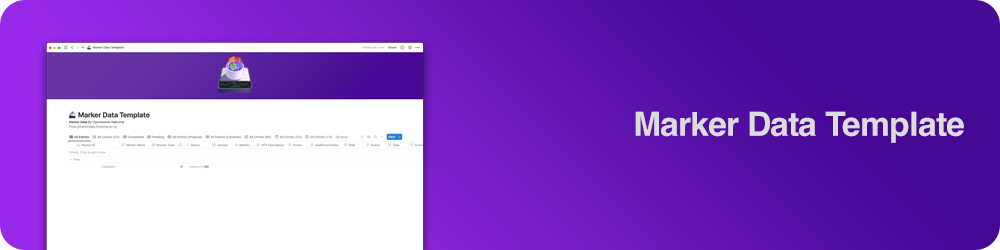
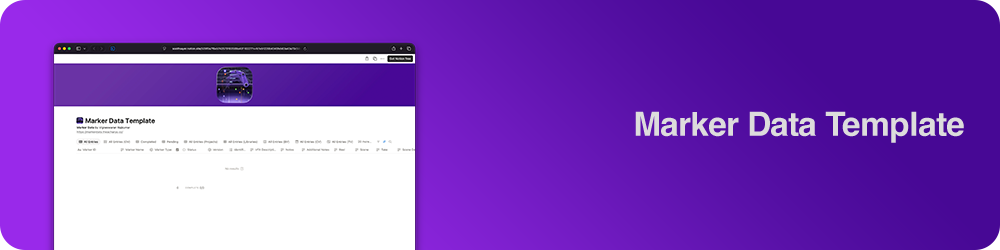
Refreshes Retype-generated documentation.
Process triggered by IAmVigneswaran.

diff --git a/resources/js/config.js b/resources/js/config.js
@@ -1,1 +1,1 @@
[2 lines of base64/hex data omitted]

diff --git a/case-study/creating-vfx-database/index.html b/case-study/creating-vfx-database/index.html
@@ -4,7 +4,7 @@
     <meta charset="UTF-8">
     <meta name="viewport" content="width=device-width,initial-scale=1">
     <meta name="color-scheme" content="light dark">
-    <meta name="turbo-cache-control" content="no-cache" data-turbo-track="reload" data-track-token="4.6.0.841154354320">
+    <meta name="turbo-cache-control" content="no-cache" data-turbo-track="reload" data-track-token="4.6.0.841159402585">
 
     <!-- See retype.com -->
     <meta name="generator" content="Retype 4.6.0">
@@ -44,11 +44,11 @@
     <script data-cfasync="false">(function(){var cl=document.documentElement.classList,ls=localStorage.getItem("retype_scheme"),hd=cl.contains("dark"),hl=cl.contains("light"),wm=window.matchMedia&&window.matchMedia("(prefers-color-scheme: dark)").matches;if(ls==="dark"||(!ls&&wm&&!hd&&!hl)){cl.remove("light");cl.add("dark")}else if(ls==="light"||(!ls&&!wm&&!hd&&!hl)){cl.remove("dark");cl.add("light")}})();</script>
 
     <link id="retype-favicon" rel="icon" href="../../static/favicon.ico" />
-    <link href="../../resources/css/retype.css?v=4.6.0.841154354320" rel="stylesheet">
+    <link href="../../resources/css/retype.css?v=4.6.0.841159402585" rel="stylesheet">
 
-    <script data-cfasync="false" src="../../resources/js/config.js?v=4.6.0.841154354320" data-turbo-eval="false" defer></script>
+    <script data-cfasync="false" src="../../resources/js/config.js?v=4.6.0.841159402585" data-turbo-eval="false" defer></script>
     <script data-cfasync="false" src="../../resources/js/retype.js?v=4.6.0" data-turbo-eval="false" defer></script>
-    <script id="lunr-js" data-cfasync="false" src="../../resources/js/lunr.js?v=4.6.0.841154354320" data-turbo-eval="false" defer></script>
+    <script id="lunr-js" data-cfasync="false" src="../../resources/js/lunr.js?v=4.6.0.841159402585" data-turbo-eval="false" defer></script>
 
     <meta name="msvalidate.01" content="325120C12888C61306930ACDFB17A57E" />
     <!-- Google Tag Manager -->

diff --git a/case-study/final-cut-pro-enigma/index.html b/case-study/final-cut-pro-enigma/index.html
@@ -4,7 +4,7 @@
     <meta charset="UTF-8">
     <meta name="viewport" content="width=device-width,initial-scale=1">
     <meta name="color-scheme" content="light dark">
-    <meta name="turbo-cache-control" content="no-cache" data-turbo-track="reload" data-track-token="4.6.0.841154354320">
+    <meta name="turbo-cache-control" content="no-cache" data-turbo-track="reload" data-track-token="4.6.0.841159402585">
 
     <!-- See retype.com -->
     <meta name="generator" content="Retype 4.6.0">
@@ -44,11 +44,11 @@
     <script data-cfasync="false">(function(){var cl=document.documentElement.classList,ls=localStorage.getItem("retype_scheme"),hd=cl.contains("dark"),hl=cl.contains("light"),wm=window.matchMedia&&window.matchMedia("(prefers-color-scheme: dark)").matches;if(ls==="dark"||(!ls&&wm&&!hd&&!hl)){cl.remove("light");cl.add("dark")}else if(ls==="light"||(!ls&&!wm&&!hd&&!hl)){cl.remove("dark");cl.add("light")}})();</script>
 
     <link id="retype-favicon" rel="icon" href="../../static/favicon.ico" />
-    <link href="../../resources/css/retype.css?v=4.6.0.841154354320" rel="stylesheet">
+    <link href="../../resources/css/retype.css?v=4.6.0.841159402585" rel="stylesheet">
 
-    <script data-cfasync="false" src="../../resources/js/config.js?v=4.6.0.841154354320" data-turbo-eval="false" defer></script>
+    <script data-cfasync="false" src="../../resources/js/config.js?v=4.6.0.841159402585" data-turbo-eval="false" defer></script>
     <script data-cfasync="false" src="../../resources/js/retype.js?v=4.6.0" data-turbo-eval="false" defer></script>
-    <script id="lunr-js" data-cfasync="false" src="../../resources/js/lunr.js?v=4.6.0.841154354320" data-turbo-eval="false" defer></script>
+    <script id="lunr-js" data-cfasync="false" src="../../resources/js/lunr.js?v=4.6.0.841159402585" data-turbo-eval="false" defer></script>
 
     <meta name="msvalidate.01" content="325120C12888C61306930ACDFB17A57E" />
     <!-- Google Tag Manager -->

diff --git a/case-study/personal-shot-library/index.html b/case-study/personal-shot-library/index.html
@@ -4,7 +4,7 @@
     <meta charset="UTF-8">
     <meta name="viewport" content="width=device-width,initial-scale=1">
     <meta name="color-scheme" content="light dark">
-    <meta name="turbo-cache-control" content="no-cache" data-turbo-track="reload" data-track-token="4.6.0.841154354320">
+    <meta name="turbo-cache-control" content="no-cache" data-turbo-track="reload" data-track-token="4.6.0.841159402585">
 
     <!-- See retype.com -->
     <meta name="generator" content="Retype 4.6.0">
@@ -38,11 +38,11 @@
     <script data-cfasync="false">(function(){var cl=document.documentElement.classList,ls=localStorage.getItem("retype_scheme"),hd=cl.contains("dark"),hl=cl.contains("light"),wm=window.matchMedia&&window.matchMedia("(prefers-color-scheme: dark)").matches;if(ls==="dark"||(!ls&&wm&&!hd&&!hl)){cl.remove("light");cl.add("dark")}else if(ls==="light"||(!ls&&!wm&&!hd&&!hl)){cl.remove("dark");cl.add("light")}})();</script>
 
     <link id="retype-favicon" rel="icon" href="../../static/favicon.ico" />
-    <link href="../../resources/css/retype.css?v=4.6.0.841154354320" rel="stylesheet">
+    <link href="../../resources/css/retype.css?v=4.6.0.841159402585" rel="stylesheet">
 
-    <script data-cfasync="false" src="../../resources/js/config.js?v=4.6.0.841154354320" data-turbo-eval="false" defer></script>
+    <script data-cfasync="false" src="../../resources/js/config.js?v=4.6.0.841159402585" data-turbo-eval="false" defer></script>
     <script data-cfasync="false" src="../../resources/js/retype.js?v=4.6.0" data-turbo-eval="false" defer></script>
-    <script id="lunr-js" data-cfasync="false" src="../../resources/js/lunr.js?v=4.6.0.841154354320" data-turbo-eval="false" defer></script>
+    <script id="lunr-js" data-cfasync="false" src="../../resources/js/lunr.js?v=4.6.0.841159402585" data-turbo-eval="false" defer></script>
 
     <meta name="msvalidate.01" content="325120C12888C61306930ACDFB17A57E" />
     <!-- Google Tag Manager -->

diff --git a/case-study/reviving-a-lost-feature/index.html b/case-study/reviving-a-lost-feature/index.html
@@ -4,7 +4,7 @@
     <meta charset="UTF-8">
     <meta name="viewport" content="width=device-width,initial-scale=1">
     <meta name="color-scheme" content="light dark">
-    <meta name="turbo-cache-control" content="no-cache" data-turbo-track="reload" data-track-token="4.6.0.841154354320">
+    <meta name="turbo-cache-control" content="no-cache" data-turbo-track="reload" data-track-token="4.6.0.841159402585">
 
     <!-- See retype.com -->
     <meta name="generator" content="Retype 4.6.0">
@@ -44,11 +44,11 @@
     <script data-cfasync="false">(function(){var cl=document.documentElement.classList,ls=localStorage.getItem("retype_scheme"),hd=cl.contains("dark"),hl=cl.contains("light"),wm=window.matchMedia&&window.matchMedia("(prefers-color-scheme: dark)").matches;if(ls==="dark"||(!ls&&wm&&!hd&&!hl)){cl.remove("light");cl.add("dark")}else if(ls==="light"||(!ls&&!wm&&!hd&&!hl)){cl.remove("dark");cl.add("light")}})();</script>
 
     <link id="retype-favicon" rel="icon" href="../../static/favicon.ico" />
-    <link href="../../resources/css/retype.css?v=4.6.0.841154354320" rel="stylesheet">
+    <link href="../../resources/css/retype.css?v=4.6.0.841159402585" rel="stylesheet">
 
-    <script data-cfasync="false" src="../../resources/js/config.js?v=4.6.0.841154354320" data-turbo-eval="false" defer></script>
+    <script data-cfasync="false" src="../../resources/js/config.js?v=4.6.0.841159402585" data-turbo-eval="false" defer></script>
     <script data-cfasync="false" src="../../resources/js/retype.js?v=4.6.0" data-turbo-eval="false" defer></script>
-    <script id="lunr-js" data-cfasync="false" src="../../resources/js/lunr.js?v=4.6.0.841154354320" data-turbo-eval="false" defer></script>
+    <script id="lunr-js" data-cfasync="false" src="../../resources/js/lunr.js?v=4.6.0.841159402585" data-turbo-eval="false" defer></script>
 
     <meta name="msvalidate.01" content="325120C12888C61306930ACDFB17A57E" />
     <!-- Google Tag Manager -->

diff --git a/databases/airtable-prerequisite/index.html b/databases/airtable-prerequisite/index.html
@@ -4,7 +4,7 @@
     <meta charset="UTF-8">
     <meta name="viewport" content="width=device-width,initial-scale=1">
     <meta name="color-scheme" content="light dark">
-    <meta name="turbo-cache-control" content="no-cache" data-turbo-track="reload" data-track-token="4.6.0.841154354320">
+    <meta name="turbo-cache-control" content="no-cache" data-turbo-track="reload" data-track-token="4.6.0.841159402585">
 
     <!-- See retype.com -->
     <meta name="generator" content="Retype 4.6.0">
@@ -44,11 +44,11 @@
     <script data-cfasync="false">(function(){var cl=document.documentElement.classList,ls=localStorage.getItem("retype_scheme"),hd=cl.contains("dark"),hl=cl.contains("light"),wm=window.matchMedia&&window.matchMedia("(prefers-color-scheme: dark)").matches;if(ls==="dark"||(!ls&&wm&&!hd&&!hl)){cl.remove("light");cl.add("dark")}else if(ls==="light"||(!ls&&!wm&&!hd&&!hl)){cl.remove("dark");cl.add("light")}})();</script>
 
     <link id="retype-favicon" rel="icon" href="../../static/favicon.ico" />
-    <link href="../../resources/css/retype.css?v=4.6.0.841154354320" rel="stylesheet">
+    <link href="../../resources/css/retype.css?v=4.6.0.841159402585" rel="stylesheet">
 
-    <script data-cfasync="false" src="../../resources/js/config.js?v=4.6.0.841154354320" data-turbo-eval="false" defer></script>
+    <script data-cfasync="false" src="../../resources/js/config.js?v=4.6.0.841159402585" data-turbo-eval="false" defer></script>
     <script data-cfasync="false" src="../../resources/js/retype.js?v=4.6.0" data-turbo-eval="false" defer></script>
-    <script id="lunr-js" data-cfasync="false" src="../../resources/js/lunr.js?v=4.6.0.841154354320" data-turbo-eval="false" defer></script>
+    <script id="lunr-js" data-cfasync="false" src="../../resources/js/lunr.js?v=4.6.0.841159402585" data-turbo-eval="false" defer></script>
 
     <meta name="msvalidate.01" content="325120C12888C61306930ACDFB17A57E" />
     <!-- Google Tag Manager -->

diff --git a/databases/database-platforms/index.html b/databases/database-platforms/index.html
@@ -4,7 +4,7 @@
     <meta charset="UTF-8">
     <meta name="viewport" content="width=device-width,initial-scale=1">
     <meta name="color-scheme" content="light dark">
-    <meta name="turbo-cache-control" content="no-cache" data-turbo-track="reload" data-track-token="4.6.0.841154354320">
+    <meta name="turbo-cache-control" content="no-cache" data-turbo-track="reload" data-track-token="4.6.0.841159402585">
 
     <!-- See retype.com -->
     <meta name="generator" content="Retype 4.6.0">
@@ -44,11 +44,11 @@
     <script data-cfasync="false">(function(){var cl=document.documentElement.classList,ls=localStorage.getItem("retype_scheme"),hd=cl.contains("dark"),hl=cl.contains("light"),wm=window.matchMedia&&window.matchMedia("(prefers-color-scheme: dark)").matches;if(ls==="dark"||(!ls&&wm&&!hd&&!hl)){cl.remove("light");cl.add("dark")}else if(ls==="light"||(!ls&&!wm&&!hd&&!hl)){cl.remove("dark");cl.add("light")}})();</script>
 
     <link id="retype-favicon" rel="icon" href="../../static/favicon.ico" />
-    <link href="../../resources/css/retype.css?v=4.6.0.841154354320" rel="stylesheet">
+    <link href="../../resources/css/retype.css?v=4.6.0.841159402585" rel="stylesheet">
 
-    <script data-cfasync="false" src="../../resources/js/config.js?v=4.6.0.841154354320" data-turbo-eval="false" defer></script>
+    <script data-cfasync="false" src="../../resources/js/config.js?v=4.6.0.841159402585" data-turbo-eval="false" defer></script>
     <script data-cfasync="false" src="../../resources/js/retype.js?v=4.6.0" data-turbo-eval="false" defer></script>
-    <script id="lunr-js" data-cfasync="false" src="../../resources/js/lunr.js?v=4.6.0.841154354320" data-turbo-eval="false" defer></script>
+    <script id="lunr-js" data-cfasync="false" src="../../resources/js/lunr.js?v=4.6.0.841159402585" data-turbo-eval="false" defer></script>
 
     <meta name="msvalidate.01" content="325120C12888C61306930ACDFB17A57E" />
     <!-- Google Tag Manager -->

diff --git a/databases/dropbox-prerequisite/index.html b/databases/dropbox-prerequisite/index.html
@@ -4,7 +4,7 @@
     <meta charset="UTF-8">
     <meta name="viewport" content="width=device-width,initial-scale=1">
     <meta name="color-scheme" content="light dark">
-    <meta name="turbo-cache-control" content="no-cache" data-turbo-track="reload" data-track-token="4.6.0.841154354320">
+    <meta name="turbo-cache-control" content="no-cache" data-turbo-track="reload" data-track-token="4.6.0.841159402585">
 
     <!-- See retype.com -->
     <meta name="generator" content="Retype 4.6.0">
@@ -44,11 +44,11 @@
     <script data-cfasync="false">(function(){var cl=document.documentElement.classList,ls=localStorage.getItem("retype_scheme"),hd=cl.contains("dark"),hl=cl.contains("light"),wm=window.matchMedia&&window.matchMedia("(prefers-color-scheme: dark)").matches;if(ls==="dark"||(!ls&&wm&&!hd&&!hl)){cl.remove("light");cl.add("dark")}else if(ls==="light"||(!ls&&!wm&&!hd&&!hl)){cl.remove("dark");cl.add("light")}})();</script>
 
     <link id="retype-favicon" rel="icon" href="../../static/favicon.ico" />
-    <link href="../../resources/css/retype.css?v=4.6.0.841154354320" rel="stylesheet">
+    <link href="../../resources/css/retype.css?v=4.6.0.841159402585" rel="stylesheet">
 
-    <script data-cfasync="false" src="../../resources/js/config.js?v=4.6.0.841154354320" data-turbo-eval="false" defer></script>
+    <script data-cfasync="false" src="../../resources/js/config.js?v=4.6.0.841159402585" data-turbo-eval="false" defer></script>
     <script data-cfasync="false" src="../../resources/js/retype.js?v=4.6.0" data-turbo-eval="false" defer></script>
-    <script id="lunr-js" data-cfasync="false" src="../../resources/js/lunr.js?v=4.6.0.841154354320" data-turbo-eval="false" defer></script>
+    <script id="lunr-js" data-cfasync="false" src="../../resources/js/lunr.js?v=4.6.0.841159402585" data-turbo-eval="false" defer></script>
 
     <meta name="msvalidate.01" content="325120C12888C61306930ACDFB17A57E" />
     <!-- Google Tag Manager -->

diff --git a/databases/notion-prerequisite/index.html b/databases/notion-prerequisite/index.html
@@ -4,7 +4,7 @@
     <meta charset="UTF-8">
     <meta name="viewport" content="width=device-width,initial-scale=1">
     <meta name="color-scheme" content="light dark">
-    <meta name="turbo-cache-control" content="no-cache" data-turbo-track="reload" data-track-token="4.6.0.841154354320">
+    <meta name="turbo-cache-control" content="no-cache" data-turbo-track="reload" data-track-token="4.6.0.841159402585">
 
     <!-- See retype.com -->
     <meta name="generator" content="Retype 4.6.0">
@@ -44,11 +44,11 @@
     <script data-cfasync="false">(function(){var cl=document.documentElement.classList,ls=localStorage.getItem("retype_scheme"),hd=cl.contains("dark"),hl=cl.contains("light"),wm=window.matchMedia&&window.matchMedia("(prefers-color-scheme: dark)").matches;if(ls==="dark"||(!ls&&wm&&!hd&&!hl)){cl.remove("light");cl.add("dark")}else if(ls==="light"||(!ls&&!wm&&!hd&&!hl)){cl.remove("dark");cl.add("light")}})();</script>
 
     <link id="retype-favicon" rel="icon" href="../../static/favicon.ico" />
-    <link href="../../resources/css/retype.css?v=4.6.0.841154354320" rel="stylesheet">
+    <link href="../../resources/css/retype.css?v=4.6.0.841159402585" rel="stylesheet">
 
-    <script data-cfasync="false" src="../../resources/js/config.js?v=4.6.0.841154354320" data-turbo-eval="false" defer></script>
+    <script data-cfasync="false" src="../../resources/js/config.js?v=4.6.0.841159402585" data-turbo-eval="false" defer></script>
     <script data-cfasync="false" src="../../resources/js/retype.js?v=4.6.0" data-turbo-eval="false" defer></script>
-    <script id="lunr-js" data-cfasync="false" src="../../resources/js/lunr.js?v=4.6.0.841154354320" data-turbo-eval="false" defer></script>
+    <script id="lunr-js" data-cfasync="false" src="../../resources/js/lunr.js?v=4.6.0.841159402585" data-turbo-eval="false" defer></script>
 
     <meta name="msvalidate.01" content="325120C12888C61306930ACDFB17A57E" />
     <!-- Google Tag Manager -->

diff --git a/in-action/airtable-profile/index.html b/in-action/airtable-profile/index.html
@@ -4,7 +4,7 @@
     <meta charset="UTF-8">
     <meta name="viewport" content="width=device-width,initial-scale=1">
     <meta name="color-scheme" content="light dark">
-    <meta name="turbo-cache-control" content="no-cache" data-turbo-track="reload" data-track-token="4.6.0.841154354320">
+    <meta name="turbo-cache-control" content="no-cache" data-turbo-track="reload" data-track-token="4.6.0.841159402585">
 
     <!-- See retype.com -->
     <meta name="generator" content="Retype 4.6.0">
@@ -44,11 +44,11 @@
     <script data-cfasync="false">(function(){var cl=document.documentElement.classList,ls=localStorage.getItem("retype_scheme"),hd=cl.contains("dark"),hl=cl.contains("light"),wm=window.matchMedia&&window.matchMedia("(prefers-color-scheme: dark)").matches;if(ls==="dark"||(!ls&&wm&&!hd&&!hl)){cl.remove("light");cl.add("dark")}else if(ls==="light"||(!ls&&!wm&&!hd&&!hl)){cl.remove("dark");cl.add("light")}})();</script>
 
     <link id="retype-favicon" rel="icon" href="../../static/favicon.ico" />
-    <link href="../../resources/css/retype.css?v=4.6.0.841154354320" rel="stylesheet">
+    <link href="../../resources/css/retype.css?v=4.6.0.841159402585" rel="stylesheet">
 
-    <script data-cfasync="false" src="../../resources/js/config.js?v=4.6.0.841154354320" data-turbo-eval="false" defer></script>
+    <script data-cfasync="false" src="../../resources/js/config.js?v=4.6.0.841159402585" data-turbo-eval="false" defer></script>
     <script data-cfasync="false" src="../../resources/js/retype.js?v=4.6.0" data-turbo-eval="false" defer></script>
-    <script id="lunr-js" data-cfasync="false" src="../../resources/js/lunr.js?v=4.6.0.841154354320" data-turbo-eval="false" defer></script>
+    <script id="lunr-js" data-cfasync="false" src="../../resources/js/lunr.js?v=4.6.0.841159402585" data-turbo-eval="false" defer></script>
 
     <meta name="msvalidate.01" content="325120C12888C61306930ACDFB17A57E" />
     <!-- Google Tag Manager -->

diff --git a/in-action/creating-pdf/index.html b/in-action/creating-pdf/index.html
@@ -4,7 +4,7 @@
     <meta charset="UTF-8">
     <meta name="viewport" content="width=device-width,initial-scale=1">
     <meta name="color-scheme" content="light dark">
-    <meta name="turbo-cache-control" content="no-cache" data-turbo-track="reload" data-track-token="4.6.0.841154354320">
+    <meta name="turbo-cache-control" content="no-cache" data-turbo-track="reload" data-track-token="4.6.0.841159402585">
 
     <!-- See retype.com -->
     <meta name="generator" content="Retype 4.6.0">
@@ -44,11 +44,11 @@
     <script data-cfasync="false">(function(){var cl=document.documentElement.classList,ls=localStorage.getItem("retype_scheme"),hd=cl.contains("dark"),hl=cl.contains("light"),wm=window.matchMedia&&window.matchMedia("(prefers-color-scheme: dark)").matches;if(ls==="dark"||(!ls&&wm&&!hd&&!hl)){cl.remove("light");cl.add("dark")}else if(ls==="light"||(!ls&&!wm&&!hd&&!hl)){cl.remove("dark");cl.add("light")}})();</script>
 
     <link id="retype-favicon" rel="icon" href="../../static/favicon.ico" />
-    <link href="../../resources/css/retype.css?v=4.6.0.841154354320" rel="stylesheet">
+    <link href="../../resources/css/retype.css?v=4.6.0.841159402585" rel="stylesheet">
 
-    <script data-cfasync="false" src="../../resources/js/config.js?v=4.6.0.841154354320" data-turbo-eval="false" defer></script>
+    <script data-cfasync="false" src="../../resources/js/config.js?v=4.6.0.841159402585" data-turbo-eval="false" defer></script>
     <script data-cfasync="false" src="../../resources/js/retype.js?v=4.6.0" data-turbo-eval="false" defer></script>
-    <script id="lunr-js" data-cfasync="false" src="../../resources/js/lunr.js?v=4.6.0.841154354320" data-turbo-eval="false" defer></script>
+    <script id="lunr-js" data-cfasync="false" src="../../resources/js/lunr.js?v=4.6.0.841159402585" data-turbo-eval="false" defer></script>
 
     <meta name="msvalidate.01" content="325120C12888C61306930ACDFB17A57E" />
     <!-- Google Tag Manager -->

diff --git a/in-action/creating-shot-library/index.html b/in-action/creating-shot-library/index.html
@@ -4,7 +4,7 @@
     <meta charset="UTF-8">
     <meta name="viewport" content="width=device-width,initial-scale=1">
     <meta name="color-scheme" content="light dark">
-    <meta name="turbo-cache-control" content="no-cache" data-turbo-track="reload" data-track-token="4.6.0.841154354320">
+    <meta name="turbo-cache-control" content="no-cache" data-turbo-track="reload" data-track-token="4.6.0.841159402585">
 
     <!-- See retype.com -->
     <meta name="generator" content="Retype 4.6.0">
@@ -44,11 +44,11 @@
     <script data-cfasync="false">(function(){var cl=document.documentElement.classList,ls=localStorage.getItem("retype_scheme"),hd=cl.contains("dark"),hl=cl.contains("light"),wm=window.matchMedia&&window.matchMedia("(prefers-color-scheme: dark)").matches;if(ls==="dark"||(!ls&&wm&&!hd&&!hl)){cl.remove("light");cl.add("dark")}else if(ls==="light"||(!ls&&!wm&&!hd&&!hl)){cl.remove("dark");cl.add("light")}})();</script>
 
     <link id="retype-favicon" rel="icon" href="../../static/favicon.ico" />
-    <link href="../../resources/css/retype.css?v=4.6.0.841154354320" rel="stylesheet">
+    <link href="../../resources/css/retype.css?v=4.6.0.841159402585" rel="stylesheet">
 
-    <script data-cfasync="false" src="../../resources/js/config.js?v=4.6.0.841154354320" data-turbo-eval="false" defer></script>
+    <script data-cfasync="false" src="../../resources/js/config.js?v=4.6.0.841159402585" data-turbo-eval="false" defer></script>
     <script data-cfasync="false" src="../../resources/js/retype.js?v=4.6.0" data-turbo-eval="false" defer></script>
-    <script id="lunr-js" data-cfasync="false" src="../../resources/js/lunr.js?v=4.6.0.841154354320" data-turbo-eval="false" defer></script>
+    <script id="lunr-js" data-cfasync="false" src="../../resources/js/lunr.js?v=4.6.0.841159402585" data-turbo-eval="false" defer></script>
 
     <meta name="msvalidate.01" content="325120C12888C61306930ACDFB17A57E" />
     <!-- Google Tag Manager -->
